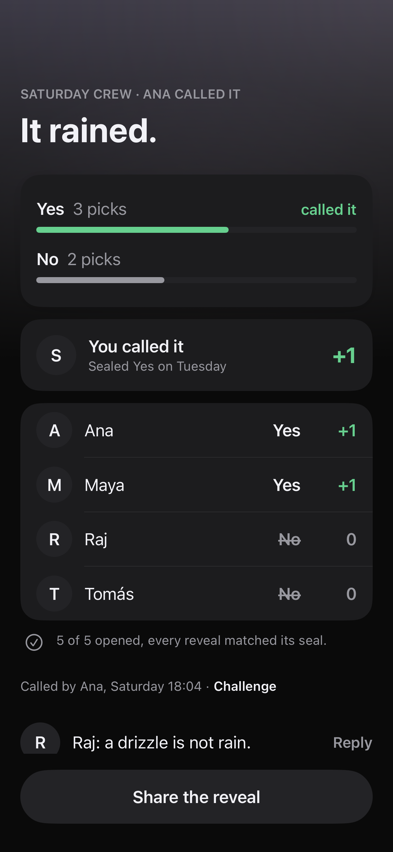
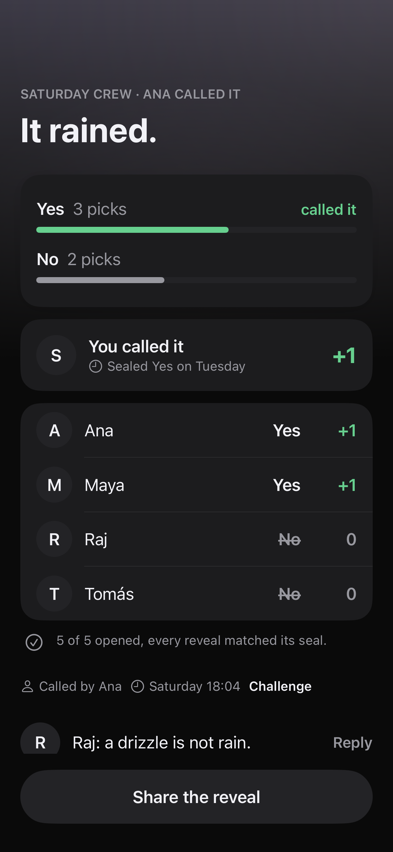
design(sweep): align result tags and metadata

Changed region(s): [[0.0611, 0.7934, 0.7939, 0.8239], [0.2137, 0.4272, 0.6107, 0.4577]]

diff --git a/Slip/Screens/ResultScreens.swift b/Slip/Screens/ResultScreens.swift
@@ -439,9 +439,7 @@ struct VerdictScreen: View {
     private var winnerCopy: some View {
         VStack(alignment: .leading, spacing: SlipSpacing.micro) {
             Text("You called it").font(SlipFont.headline)
-            Text("Sealed Yes on Tuesday")
-                .font(SlipFont.footnote)
-                .foregroundStyle(SlipColor.secondary)
+            RowMetadata(symbol: "clock", text: "Sealed Yes on Tuesday")
         }
     }
 
@@ -470,14 +468,14 @@ struct VerdictScreen: View {
 
     private var provenance: some View {
         ViewThatFits(in: .horizontal) {
-            HStack(spacing: SlipSpacing.tiny) {
-                Text("Called by Ana, Saturday 18:04 ·")
-                    .foregroundStyle(SlipColor.secondary)
+            HStack(spacing: SlipSpacing.small) {
+                RowMetadata(symbol: "person", text: "Called by Ana")
+                RowMetadata(symbol: "clock", text: "Saturday 18:04")
                 challengeButton
             }
             VStack(alignment: .leading, spacing: SlipSpacing.small) {
-                Text("Called by Ana, Saturday 18:04")
-                    .foregroundStyle(SlipColor.secondary)
+                RowMetadata(symbol: "person", text: "Called by Ana")
+                RowMetadata(symbol: "clock", text: "Saturday 18:04")
                 challengeButton
             }
         }
@@ -852,9 +850,10 @@ struct VoidedScreen: View {
     private var challengeSummaryCopy: some View {
         VStack(alignment: .leading, spacing: SlipSpacing.tiny) {
             Text("Raj challenged Ana’s call").font(SlipFont.headline)
-            Text("Ana said it rained · Raj: “a drizzle is not rain” · Sunday 09:12")
+            Text("Ana said it rained · Raj: “a drizzle is not rain”")
                 .font(SlipFont.footnote)
                 .foregroundStyle(SlipColor.secondary)
+            RowMetadata(symbol: "clock", text: "Sunday 09:12")
         }
         .foregroundStyle(SlipColor.ink)
     }
@@ -1457,7 +1456,9 @@ private struct ResultRosterRow: View {
 
     var body: some View {
         Group {
-            if dynamicTypeSize.isAccessibilitySize {
+            if let sealed = item.sealed, let detail = item.detail {
+                detailedSeal(sealed: sealed, detail: detail)
+            } else if dynamicTypeSize.isAccessibilitySize {
                 HStack(alignment: .top, spacing: SlipSpacing.medium) {
                     InitialAvatar(name: item.name, size: avatarSize)
                     VStack(alignment: .leading, spacing: SlipSpacing.small) {
@@ -1480,6 +1481,24 @@ private struct ResultRosterRow: View {
         .padding(.vertical, rowVerticalPadding)
         .frame(minHeight: rowMinimumHeight)
         .accessibilityElement(children: .combine)
+    }
+
+    private func detailedSeal(sealed: Bool, detail: String) -> some View {
+        HStack(alignment: .top, spacing: SlipSpacing.medium) {
+            InitialAvatar(name: item.name, size: avatarSize)
+            VStack(alignment: .leading, spacing: SlipSpacing.tiny) {
+                let layout = dynamicTypeSize.isAccessibilitySize
+                    ? AnyLayout(VStackLayout(alignment: .leading, spacing: SlipSpacing.tiny))
+                    : AnyLayout(HStackLayout(alignment: .firstTextBaseline, spacing: SlipSpacing.small))
+                layout {
+                    Text(item.name).font(item.name == "You" ? SlipFont.headline : SlipFont.body)
+                    if !dynamicTypeSize.isAccessibilitySize { Spacer(minLength: SlipSpacing.tiny) }
+                    SealStatusTag(sealed: sealed)
+                }
+                RowMetadata(symbol: "clock", text: detail)
+            }
+            .frame(maxWidth: .infinity, alignment: .leading)
+        }
     }
 
     private var usesCompactMetrics: Bool {
